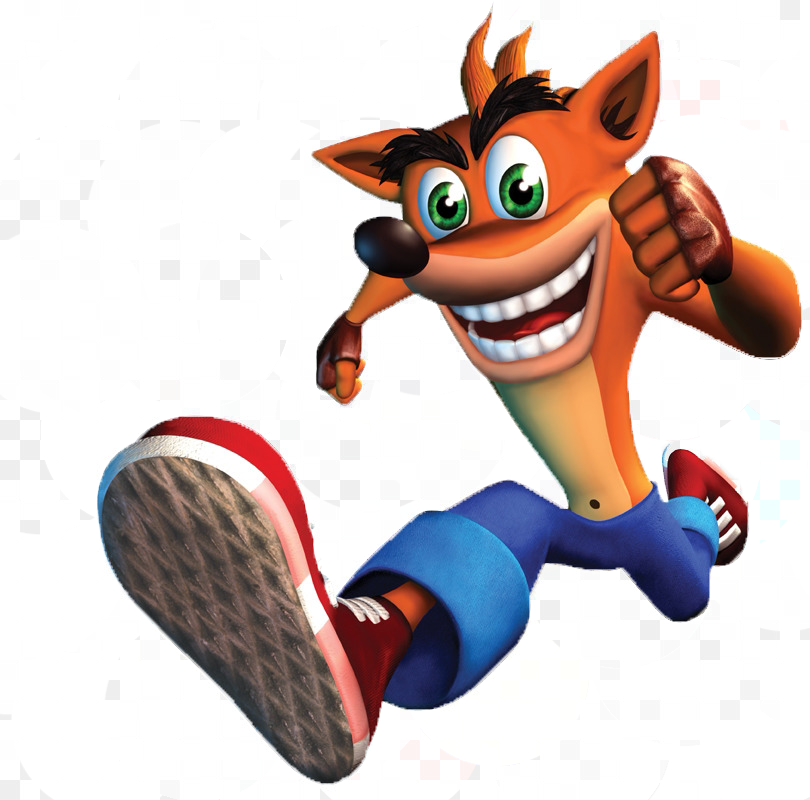
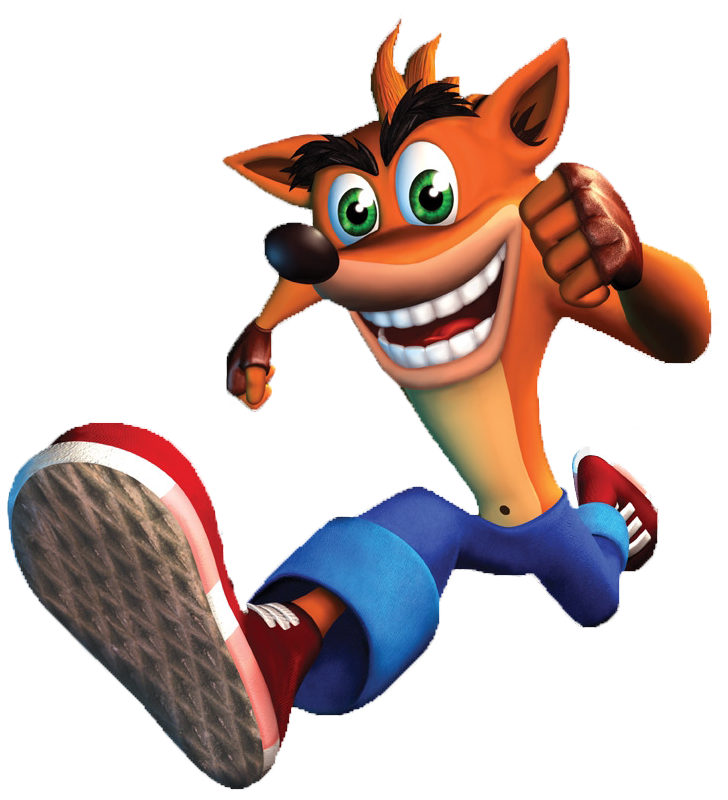
cambios avfgames

diff --git a/src/components/HomeComponent/HomeComponent.jsx b/src/components/HomeComponent/HomeComponent.jsx
@@ -58,8 +58,13 @@ export function HomeComponent() {
 
     return (
         <Container className='contHome'>
+            <Row>
+                <Col>
+                    <h3 className='title'>RANKING</h3>
+                </Col>
+            </Row>
             <Row className='rowHome'>
-                <Col lg={6} className='colHomeMario'>
+                <Col md={6} className='colHomeMario'>
                     <Button onClick={sumarMario} className='btnCharacter'>
                         <Image className='imgCharacterMario' src="../../img/mariobros.png" alt="" />
                     </Button>
@@ -67,7 +72,7 @@ export function HomeComponent() {
                         <h3 className='textCharacter'>{countMario}</h3>
                     </Button>
                 </Col>
-                <Col lg={6} className='colHome'>
+                <Col md={6} className='colHome'>
                     <Button onClick={sumarPacman} className='btnCharacter'>
                         <Image className='imgCharacterPacman' src="../../img/pacman.png" alt="" />
                     </Button>
@@ -77,7 +82,7 @@ export function HomeComponent() {
                 </Col>
             </Row>
             <Row className='rowHome'>
-                <Col lg={6} className='colHomeSonic'>
+                <Col md={6} className='colHomeSonic'>
                     <Button onClick={sumarSonic} className='btnCharacter'>
                         <Image className='imgCharacterSonic' src="../../img/sonic.png" alt="" />
                     </Button>
@@ -85,7 +90,7 @@ export function HomeComponent() {
                         <h3 className='textCharacter'>{countSonic}</h3>
                     </Button>
                 </Col>
-                <Col lg={6} className='colHome'>
+                <Col md={6} className='colHome'>
                     <Button onClick={sumarCrash} className='btnCharacter'>
                         <Image className='imgCharacterCharsh' src="../../img/crash.png" alt="" />
                     </Button>

diff --git a/src/components/HomeComponent/HomeComponent.css b/src/components/HomeComponent/HomeComponent.css
@@ -6,7 +6,6 @@
 
 .rowHome{
     display: flex;
-    height:50vh;
 }
 
 .colHome{
@@ -22,8 +21,7 @@
     width:50%;
     display: flex;
     justify-content: left;
-    align-items: center;
-    padding-left: 50px;
+    padding-left: 80px;
 }
 
 .colHomeMario{
@@ -31,34 +29,43 @@
     width:50%;
     display: flex;
     justify-content: left;
-    align-items: center;
-    padding-left: 50px;
+    padding-left: 80px;
 }
 
 .imgCharacterMario{
-    padding-top: 50px;
-    width:250px;
+    padding-top: 30px;
+    width:200px;
 }
 
 .imgCharacterPacman{
-    padding-top: 50px;
-    width:350px;
+    padding-top: 30px;
+    width:300px;
 }
 
 .imgCharacterSonic{
-    padding-top: 50px;
-    width:350px;
+    padding-top: 10px;
+    width:300px;
 }
 
 .imgCharacterCharsh{
-    padding-top: 50px;
-    width:450px;
+    padding-top: 10px;
+    width:330px;
+}
+
+.title{
+    font-family:'Pixelmania';
+    justify-content: center;
+    align-items: center;
+    color: #06ed59;
+    font-size: 80px;
+    display: flex;
+    margin: 0;
 }
 
 .textCharacter{
     font-family:'Pixelmania';
     color: #06ed59;
-    font-size: 100px;
+    font-size: 90px;
     display: flex;
 
 }
@@ -66,7 +73,7 @@
 .textCharacterCrash{
     font-family:'Pixelmania';
     color: #06ed59;
-    font-size: 100px;
+    font-size: 90px;
     display: flex;
 }
 

diff --git a/src/index.css b/src/index.css
@@ -5,6 +5,8 @@ body {
     sans-serif;
   -webkit-font-smoothing: antialiased;
   -moz-osx-font-smoothing: grayscale;
+  background-image: url(../src/img/puntaje1.jpg);
+  background-size: cover;
 }
 
 code {

diff --git a/src/App.css b/src/App.css
@@ -13,12 +13,7 @@
   }
 }
 
-.containerApp {
-  background-image: url(../src/img/puntaje.jpg);
-  height: 100vh;
-  width: 100vw;
-  
-}
+
 
 .App-link {
   color: #61dafb;
